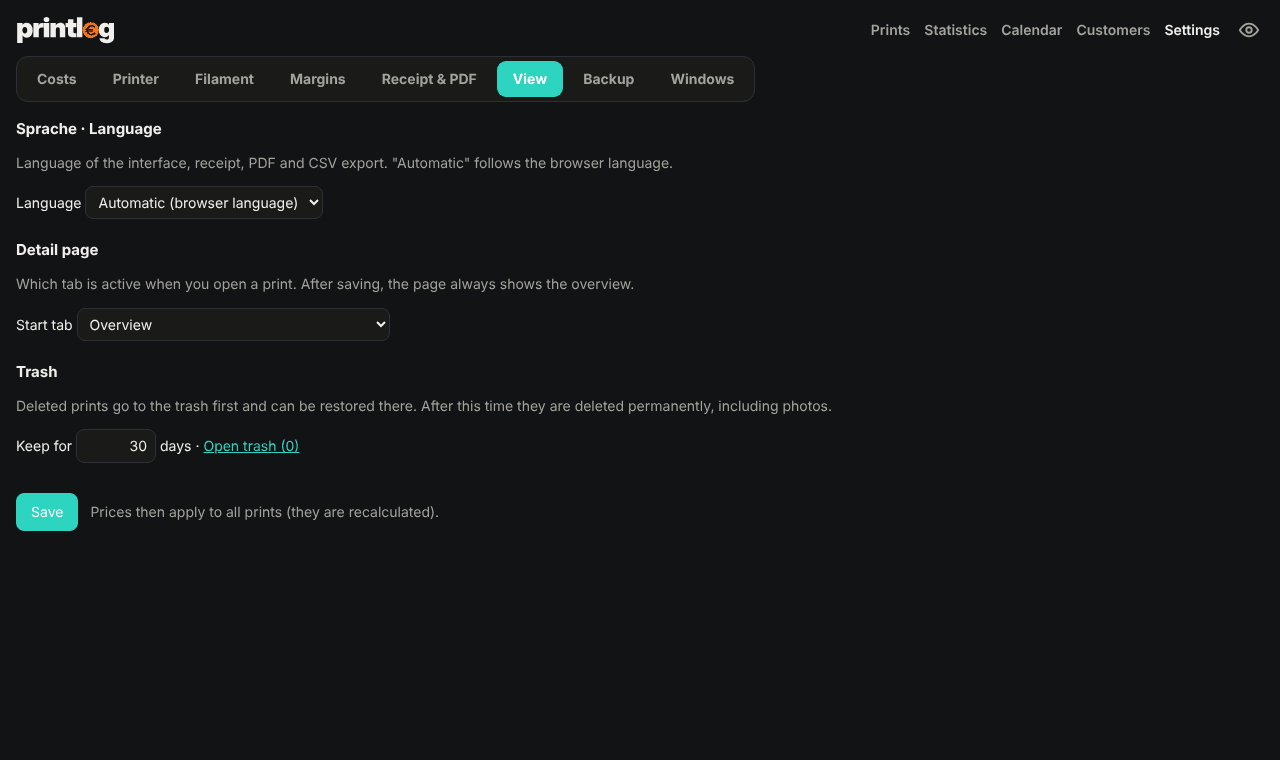
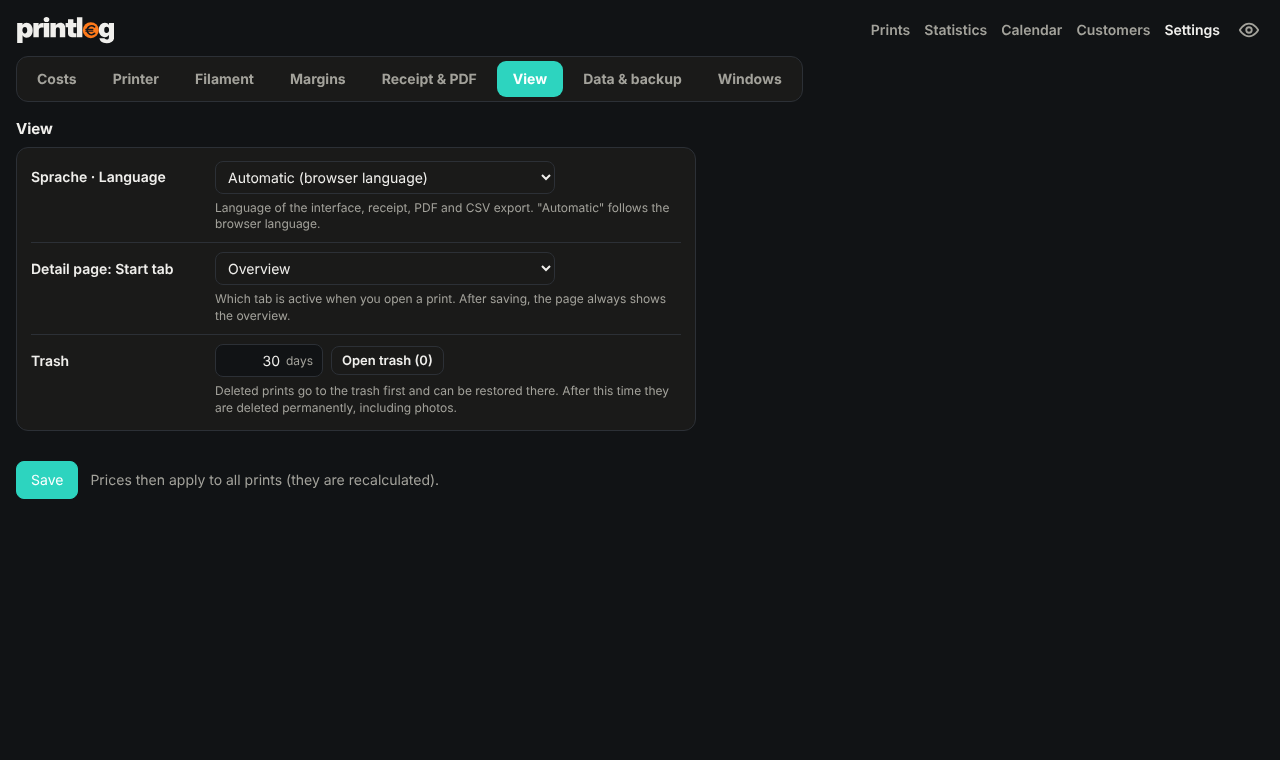
Einstellungen kompakter: begrenzte Breite, Filament als Kacheln, Formularzeilen
- Inhaltsbreite auf 960 px begrenzt, Erklärtexte auf Lesebreite
- Filamentpreise nach Typ und Sorte als Kachel-Raster mit Einheit €/kg direkt am Feld
- Margen, Ansicht und Backup-Zeitplan als kompakte Formularzeilen statt Tabellen
- Handy: Kacheln zweispaltig, Formularzeilen untereinander
- README-Screenshot Einstellungen → Ansicht aktualisiert

Claude-Session: https://claude.ai/code/session_016QS8kJCCtqi9KYwcdXfRjW

diff --git a/app/pages.py b/app/pages.py
@@ -1381,26 +1381,27 @@ def page_settings(store: Store, saved: str | None, logo: str | None = None,
 
     types = sorted(set(KNOWN_TYPES) | set(store.material_types())
                    | {k for k, v in prices.items() if v["kind"] == "type"})
-    type_rows = "".join(
-        f'<tr><td>{e(ty)}</td><td class="n"><input class="num" name="type__{e(ty)}" '
-        f'value="{fmt_input(prices.get(ty, {}).get("eur_per_kg"))}" inputmode="decimal" placeholder="€/kg"></td></tr>'
-        for ty in types
-    )
+    def tile(label: str, name: str, value: Any, placeholder: str) -> str:
+        return (f'<label class="ftile"><span class="flbl">{label}</span><span class="ig"><input class="num" name="{name}" '
+                f'value="{fmt_input(value)}" inputmode="decimal" placeholder="{e(placeholder)}"><i>€/kg</i></span></label>')
+
+    type_rows = "".join(tile(e(ty), f"type__{e(ty)}", prices.get(ty, {}).get("eur_per_kg"), "–") for ty in types)
     seen = {m["name"]: m["type"] for m in store.material_names()}
     for k, v in prices.items():
         if v["kind"] == "name":
             seen.setdefault(k, None)
     name_rows = "".join(
-        f'<tr><td>{e(n)} <span class="muted">{e(ty or "")}</span></td><td class="n"><input class="num" name="name__{e(n)}" '
-        f'value="{fmt_input(prices.get(n, {}).get("eur_per_kg"))}" inputmode="decimal" placeholder="{e(t("wie Typ"))}"></td></tr>'
+        tile(f'{e(n)} <small class="muted">{e(ty or "")}</small>', f"name__{e(n)}", prices.get(n, {}).get("eur_per_kg"), t("wie Typ"))
         for n, ty in sorted(seen.items())
-    ) or f'<tr><td colspan="2" class="muted">{t("Erscheint, sobald Drucke mit Materialangaben erfasst sind.")}</td></tr>'
+    )
 
     banner = f'<div class="banner">{t("Gespeichert. {n} Drucke wurden neu berechnet.", n=e(saved))}</div>' if saved else ""
     cfg = store.settings()
     margin_rows = "".join(
-        f'<tr><td><input name="margin{i}_name" value="{e(cfg.get(f"margin{i}_name") or "")}" placeholder="{ph}" style="width:100%"></td>'
-        f'<td class="n"><input class="num" name="margin{i}_pct" value="{e(cfg.get(f"margin{i}_pct") or "")}" inputmode="decimal" placeholder="%"></td></tr>'
+        f'<div class="frow"><span class="flbl">{t("Marge {i}", i=i)}</span><span class="fctl">'
+        f'<input name="margin{i}_name" value="{e(cfg.get(f"margin{i}_name") or "")}" placeholder="{ph}" aria-label="{e(t("Name"))}" class="mname">'
+        f'<span class="ig"><input class="num" name="margin{i}_pct" value="{e(cfg.get(f"margin{i}_pct") or "")}" inputmode="decimal" '
+        f'placeholder="0" aria-label="{e(t("Aufschlag %"))}"><i>%</i></span></span></div>'
         for i, ph in ((1, t("z. B. Privat")), (2, t("z. B. Gewerbe")))
     )
     from datetime import datetime
@@ -1413,13 +1414,13 @@ def page_settings(store: Store, saved: str | None, logo: str | None = None,
         return "".join(f'<option value="{e(v)}"{" selected" if v == current else ""}>{e(lbl)}</option>' for v, lbl in items)
 
     backup_form = (
-        '<div class="wrap"><table><tbody>'
-        f'<tr><td>{t("Intervall")}</td><td><select name="backup_interval">{options([(k, t(v)) for k, v in INTERVALS.items()], interval)}</select></td></tr>'
-        f'<tr><td>{t("Wochentag")} <span class="muted">{t("(nur wöchentlich)")}</span></td><td><select name="backup_weekday">'
-        f'{options([(str(i), t(d)) for i, d in enumerate(WEEKDAYS)], str(weekday))}</select></td></tr>'
-        f'<tr><td>{t("Uhrzeit")}</td><td><select name="backup_hour">'
-        f'{options([(str(h), f"{h:02d}:00") for h in range(24)], str(hour))}</select></td></tr>'
-        '</tbody></table></div>'
+        '<div class="fbox inline">'
+        f'<label class="fcol">{t("Intervall")}<select name="backup_interval">{options([(k, t(v)) for k, v in INTERVALS.items()], interval)}</select></label>'
+        f'<label class="fcol">{t("Wochentag")} <span class="muted">{t("(nur wöchentlich)")}</span><select name="backup_weekday">'
+        f'{options([(str(i), t(d)) for i, d in enumerate(WEEKDAYS)], str(weekday))}</select></label>'
+        f'<label class="fcol">{t("Uhrzeit")}<select name="backup_hour">'
+        f'{options([(str(h), f"{h:02d}:00") for h in range(24)], str(hour))}</select></label>'
+        '</div>'
     )
     if enabled():
         state = (t("noch keins") if len(last) < 3 else
@@ -1463,31 +1464,32 @@ def page_settings(store: Store, saved: str | None, logo: str | None = None,
     panes = [
         pane("kosten", t("Kosten"), f"""<h2 style="margin-top:0">{t("Drucker: Abschreibung, Wartung und Verschleiß")}</h2>
 <p class="muted">{t("Kosten pro Druckstunde = Anschaffung ÷ Lebensdauer in Druckstunden + Wartung pro Jahr ÷ Druckstunden pro Jahr + Verschleiß pro Stunde. Leere Felder zählen nicht. „bisher“ zeigt die erfassten Druckstunden der letzten 12 Monate.")}</p>
-<div class="wrap"><table class="stack"><thead><tr><th>{t("Drucker")}</th><th class="n">{t("Anschaffung €")}</th><th class="n">{t("Lebensdauer h")}</th>
+<div class="wrap"><table class="stack rates"><thead><tr><th>{t("Drucker")}</th><th class="n">{t("Anschaffung €")}</th><th class="n">{t("Lebensdauer h")}</th>
 <th class="n">{t("Wartung €/Jahr")}</th><th class="n">{t("Druckstunden/Jahr")}</th><th class="n">{t("Verschleiß €/h")}</th><th class="n">{t("= pro Stunde")}</th></tr></thead>
 <tbody>{"".join(printer_rows)}</tbody></table></div>
 <p class="muted">{t("Der Strompreis kommt aus Home Assistant ({entity}) bzw. aus der HA-Automation und wird pro Druck zum Druckende festgehalten.", entity=price_entity)}</p>"""),
         pane("drucker", t("Drucker"), printers_html),
         pane("filament", t("Filament"), f"""<h2 style="margin-top:0">{t("Filamentpreise nach Typ")}</h2>
 <p class="muted">{t("Standardpreis pro Kilogramm, gilt für alle Filamente dieses Typs.")}</p>
-<div class="wrap"><table><thead><tr><th>{t("Typ")}</th><th class="n">€/kg</th></tr></thead><tbody>{type_rows}</tbody></table></div>
+<div class="fgrid">{type_rows}</div>
 <h2>{t("Filamentpreise nach Sorte (optional)")}</h2>
 <p class="muted">{t("Überschreibt den Typpreis für eine bestimmte Sorte, z. B. „Bambu PLA Matte“. Leer lassen = Typpreis.")}</p>
-<div class="wrap"><table><thead><tr><th>{t("Sorte")}</th><th class="n">€/kg</th></tr></thead><tbody>{name_rows}</tbody></table></div>"""),
+{f'<div class="fgrid wide">{name_rows}</div>' if name_rows else f'<p class="muted">{t("Erscheint, sobald Drucke mit Materialangaben erfasst sind.")}</p>'}"""),
         pane("margen", t("Margen"), f"""<h2 style="margin-top:0">{t("Margen")}</h2>
 <p class="muted">{t("Bis zu zwei allgemeine Aufschläge auf die Gesamtkosten. Jede Marge bekommt in der Tabelle eine eigene Spalte mit Verkaufspreis (und Preis pro Stück). Eine Marge pro Kunde stellst du unter „Kunden“ ein.")}</p>
-<div class="wrap"><table><thead><tr><th>{t("Name")}</th><th class="n">{t("Aufschlag %")}</th></tr></thead><tbody>{margin_rows}</tbody></table></div>"""),
+<div class="fbox">{margin_rows}</div>"""),
         pane("bon", t("Bon &amp; PDF"), logo_html),
-        pane("ansicht", t("Ansicht"), f"""<h2 style="margin-top:0">Sprache · Language</h2>
-<p class="muted">{t("Sprache der Oberfläche, von Bon, PDF und CSV-Export. „Automatisch“ richtet sich nach der Sprache des Browsers.")}</p>
-<p><label>{t("Sprache")} <select name="language">{lang_opts}</select></label></p>
-<h2>{t("Detailseite")}</h2>
-<p class="muted">{t("Welcher Tab beim Öffnen eines Drucks aktiv ist. Nach dem Speichern zeigt die Seite immer die Übersicht.")}</p>
-<p><label>{t("Start-Tab")} <select name="detail_tab">{"".join(opt(k, t(v), cfg.get("detail_tab") or "ov") for k, v in DETAIL_TABS.items())}</select></label></p>
-<h2>{t("Papierkorb")}</h2>
-<p class="muted">{t("Gelöschte Drucke landen erst im Papierkorb und lassen sich dort wiederherstellen. Nach dieser Zeit werden sie samt Fotos endgültig gelöscht.")}</p>
-<p><label>{t("Aufbewahren")} <input class="num" name="trash_days" inputmode="numeric" style="width:80px" value="{e(cfg.get("trash_days") or "30")}"> {t("Tage")}</label>
-· <a href="trash">{t("Papierkorb öffnen ({n})", n=store.trash_count())}</a></p>"""),
+        pane("ansicht", t("Ansicht"), f"""<h2 style="margin-top:0">{t("Ansicht")}</h2>
+<div class="fbox">
+<div class="frow"><label class="flbl" for="s_lang">Sprache · Language</label><select id="s_lang" name="language">{lang_opts}</select>
+<small class="fhint muted">{t("Sprache der Oberfläche, von Bon, PDF und CSV-Export. „Automatisch“ richtet sich nach der Sprache des Browsers.")}</small></div>
+<div class="frow"><label class="flbl" for="s_dtab">{t("Detailseite")}: {t("Start-Tab")}</label><select id="s_dtab" name="detail_tab">{"".join(opt(k, t(v), cfg.get("detail_tab") or "ov") for k, v in DETAIL_TABS.items())}</select>
+<small class="fhint muted">{t("Welcher Tab beim Öffnen eines Drucks aktiv ist. Nach dem Speichern zeigt die Seite immer die Übersicht.")}</small></div>
+<div class="frow"><label class="flbl" for="trash_days">{t("Papierkorb")}</label><span class="fctl">
+<span class="ig"><input class="num" id="trash_days" name="trash_days" inputmode="numeric" value="{e(cfg.get("trash_days") or "30")}"><i>{t("Tage")}</i></span>
+<a class="btn sm" href="trash">{t("Papierkorb öffnen ({n})", n=store.trash_count())}</a></span>
+<small class="fhint muted">{t("Gelöschte Drucke landen erst im Papierkorb und lassen sich dort wiederherstellen. Nach dieser Zeit werden sie samt Fotos endgültig gelöscht.")}</small></div>
+</div>"""),
         pane("backup", t("Daten &amp; Backup"), _data_pane(store, names, backup_html, safety or [], data_msg or {})),
         pane("windows", "Windows", f"""<h2 style="margin-top:0">{t("Ordner-Links (Windows)")}</h2>
 <p>{t("Bei jedem Druck kannst du einen lokalen Ordner oder eine Datei eintragen. „📋 Kopieren“ geht immer (dann Win+E, Strg+L, einfügen). Damit „📂 Öffnen“ direkt funktioniert, richte einmalig pro Windows-PC das Link-Protokoll ein:")}</p>
@@ -1518,7 +1520,39 @@ def page_settings(store: Store, saved: str | None, logo: str | None = None,
 
 
 SETTINGS_CSS = """
-.settings{max-width:1180px}
+.settings{max-width:960px}
+.spane>p,.spane>ol{max-width:76ch}
+.spane table.rates input.num{width:104px}
+.fgrid{display:grid;grid-template-columns:repeat(auto-fill,minmax(178px,1fr));gap:8px}
+.fgrid.wide{grid-template-columns:repeat(auto-fill,minmax(min(100%,290px),1fr))}
+.ftile{display:flex;align-items:center;justify-content:space-between;gap:10px;background:var(--card);border:1px solid var(--line);
+  border-radius:10px;padding:5px 5px 5px 12px;min-width:0}
+.ftile:focus-within{border-color:var(--accent)}
+.ftile .flbl{font-weight:600;min-width:0;overflow:hidden;text-overflow:ellipsis;white-space:nowrap}
+.ftile .flbl small{font-weight:400}
+.ig{display:inline-flex;align-items:center;flex:0 0 auto;border:1px solid var(--line);border-radius:8px;background:var(--bg);overflow:hidden}
+.ig input.num{border:0;border-radius:0;background:none;width:68px;padding:6px 4px 6px 8px}
+.ig input:focus{outline:none}
+.ig i{font-style:normal;font-size:12px;line-height:1;color:var(--muted);padding:0 9px 0 2px;white-space:nowrap}
+.fbox{background:var(--card);border:1px solid var(--line);border-radius:12px;padding:4px 14px;max-width:680px}
+.frow{display:grid;grid-template-columns:170px minmax(0,1fr);gap:6px 14px;align-items:center;padding:9px 0}
+.frow+.frow{border-top:1px solid var(--line)}
+.frow .flbl{font-weight:600}
+.frow .fhint{grid-column:2;font-size:12px;line-height:1.4}
+.frow select{width:100%;max-width:340px}
+.fctl{display:flex;gap:8px;align-items:center;flex-wrap:wrap;min-width:0}
+.fctl .mname{flex:1 1 160px;min-width:0;max-width:260px}
+.fbox.inline{display:flex;flex-wrap:wrap;align-items:flex-end;gap:10px 16px;padding:12px 14px}
+.fcol{display:flex;flex-direction:column;gap:4px;font-size:12px;font-weight:600;color:var(--muted);white-space:nowrap}
+.fcol select{min-width:150px;font-size:14px;font-weight:400;color:var(--fg)}
+@media (max-width:520px){
+ .frow{grid-template-columns:1fr;gap:6px}.frow .fhint{grid-column:1}
+ .frow select{max-width:none}
+ .fgrid{grid-template-columns:repeat(2,minmax(0,1fr))}
+ .fgrid.wide{grid-template-columns:1fr}
+ .fgrid{gap:6px}.ftile{padding:4px 4px 4px 10px;gap:6px}.ftile .ig input.num{width:56px}.fgrid.wide .ftile .ig input.num{width:70px}
+ .fbox.inline .fcol{flex:1 1 140px}.fcol select{min-width:0;width:100%}
+}
 .stabs{display:flex;gap:4px;margin:0 0 16px;background:var(--card);border:1px solid var(--line);border-radius:12px;padding:4px;
   width:max-content;max-width:100%;overflow-x:auto;scrollbar-width:none}
 .stabs::-webkit-scrollbar{display:none}
